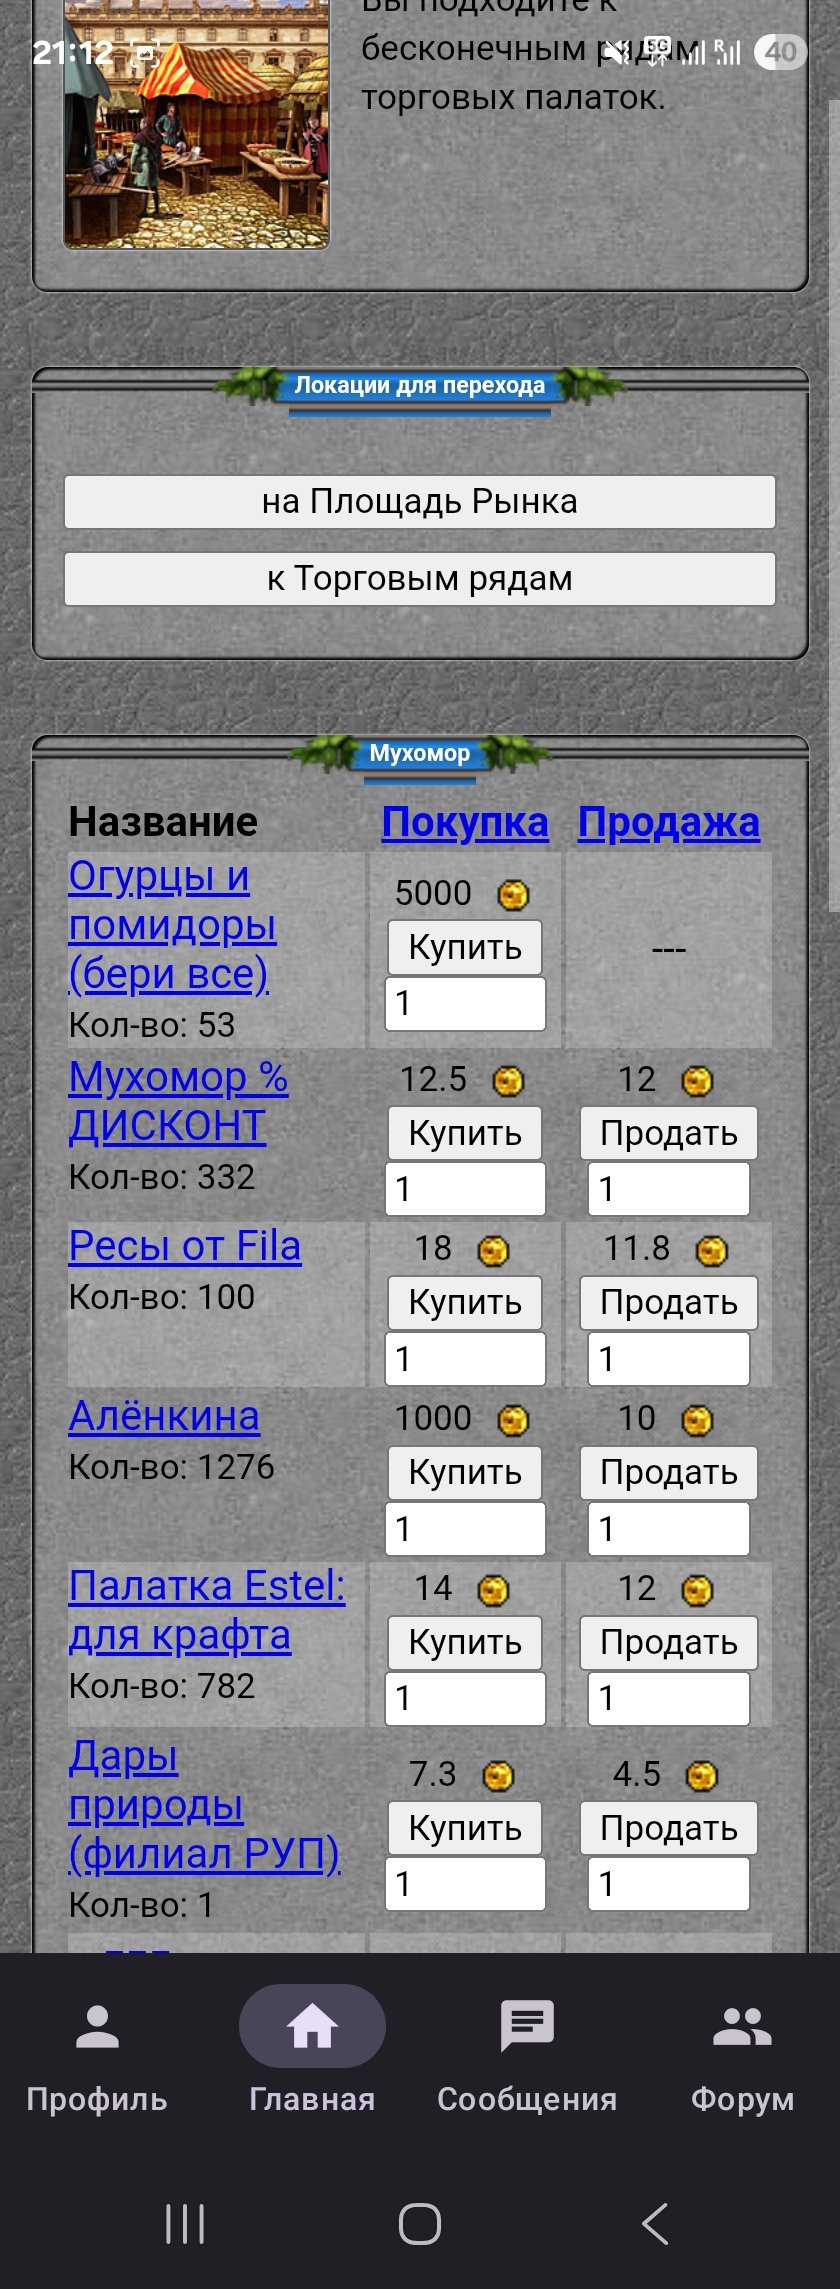
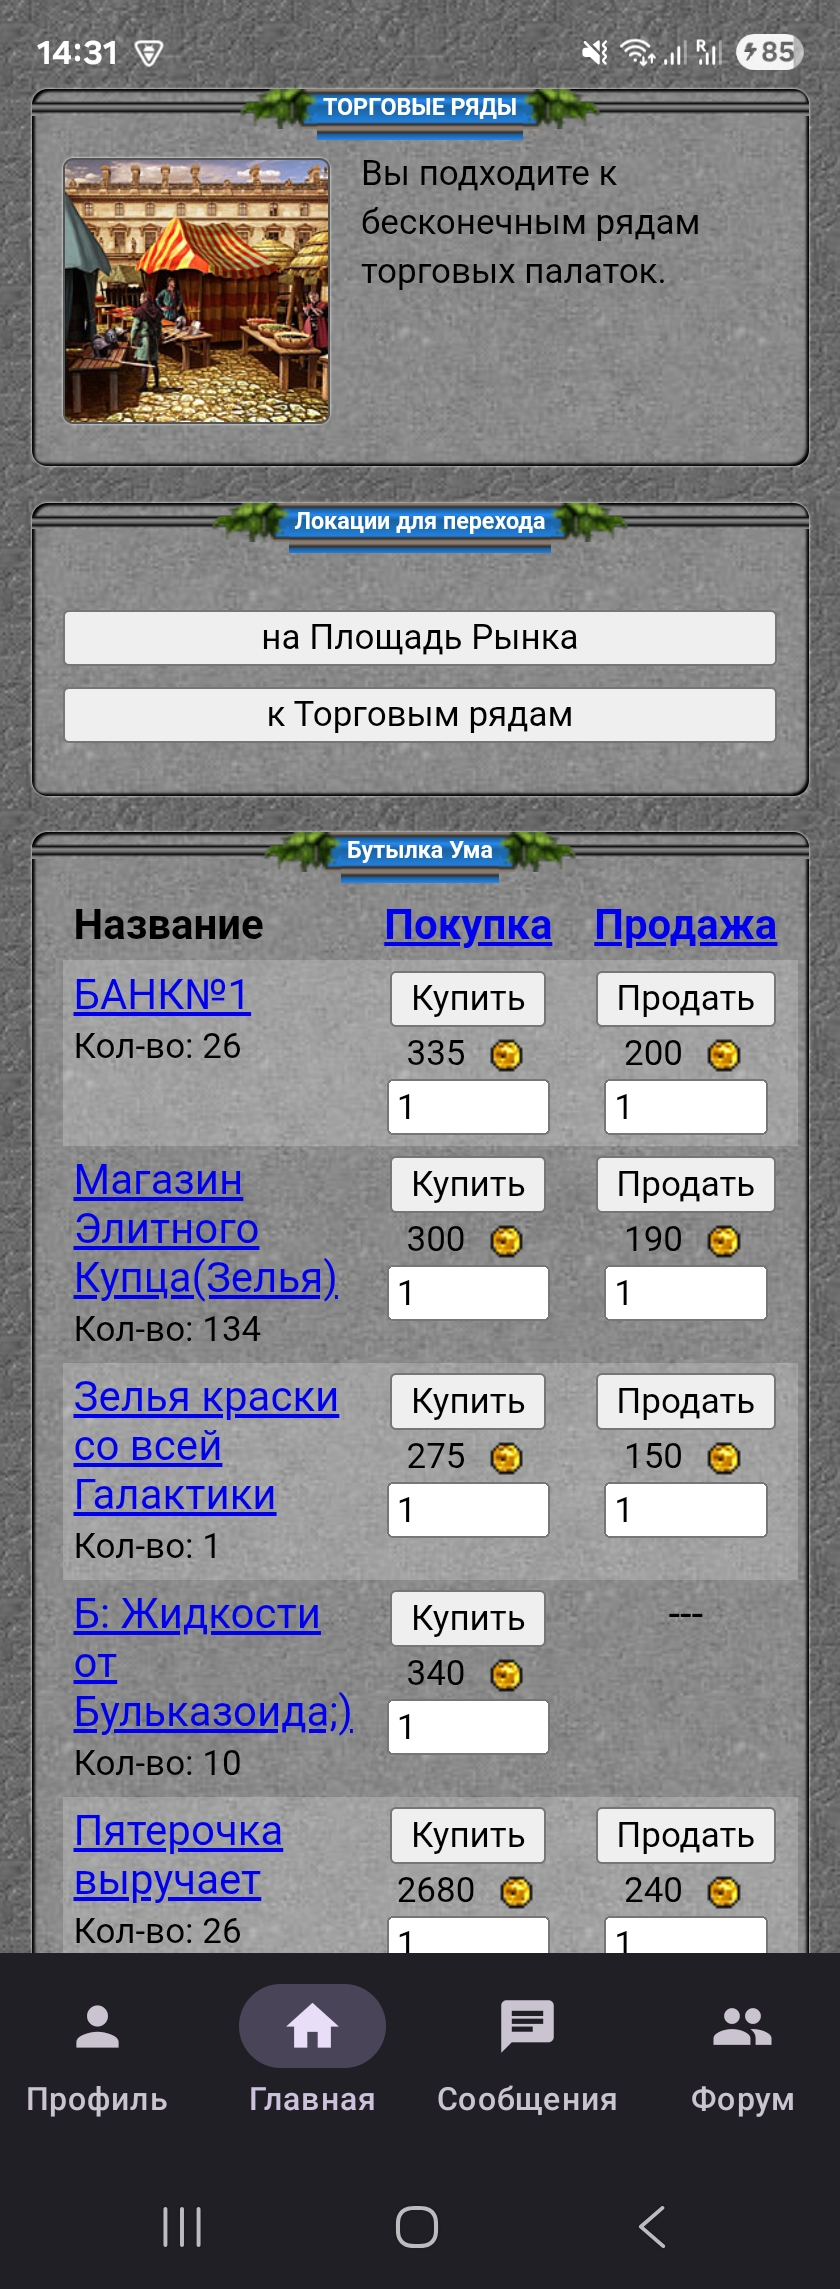
[#61] [CR] Visual adjustments. Improve store list

diff --git a/resources/views/store_tents.blade.php b/resources/views/store_tents.blade.php
@@ -99,7 +99,7 @@
                 <br />
             </div>
             <div class="main_middle">
-                <table width="100%" colspacing="0" cellpadding="0">
+                <table width="100%" cellpadding="4" cellspacing="0">
                     <tr class="colored">
                         <th align="left">
                             Название
@@ -117,37 +117,39 @@
                             <a href="/cgi/v_trade_load_shop.php?id={{ $item['id'] }}">{{ $item['name'] }}</a><br />
                             <small>Кол-во: {{ $item['count'] }}</small>
                         </td>
-                        <td align="center">
-                            <small>
-                                <span class="item_buy" id="b{{ $item['id'] }}">загрузка...</span>&nbsp;
-                                <img src="https://www.fantasyland.ru/images/miscellaneous/money.gif" align="absmiddle" />
-                            </small>
-                            <br />
+                        <td valign="top" align="center">
                             <center>
                                 <form method="POST" onsubmit="return submitBuyForm(this)">
                                     @csrf
+                                    <input type="submit" value="Купить" />
+                                    <br />
+                                    <small>
+                                        <span class="item_buy" id="b{{ $item['id'] }}">загрузка...</span>&nbsp;
+                                        <img src="https://www.fantasyland.ru/images/miscellaneous/money.gif" align="absmiddle" />
+                                    </small>
+                                    <br />
                                     <input type="hidden" name="good_id" value="{{ $id }}" />
                                     <input type="hidden" name="shp_id" id="mb{{ $item['id'] }}" value="" />
                                     <input type="hidden" name="good_type" value="-1" />
                                     <input type="hidden" name="price_quest" value="" />
                                     <input type="hidden" name="capCode" value="" />
-                                    <input type="submit" value="Купить" /><br />
                                     <input type="text" name="number" value="1" size="3" onkeyup="updateCost('b{{ $item['id'] }}', this.value)" />
                                 </form>
                             </center>
                         </td>
-                        <td align="center" id="i{{ $item['id'] }}">
-                            <small>
-                                <span class="item_sell" id="s{{ $item['id'] }}">загрузка...</span>&nbsp;
-                                <img src="https://www.fantasyland.ru/images/miscellaneous/money.gif" align="absmiddle" />
-                            </small>
-                            <br />
+                        <td valign="top" align="center" id="i{{ $item['id'] }}">
                             <center>
                                 <form method="POST" onsubmit="return submitSellForm(this)">
                                     @csrf
+                                    <input type="submit" value="Продать" />
+                                    <br />
+                                    <small>
+                                        <span class="item_sell" id="s{{ $item['id'] }}">загрузка...</span>&nbsp;
+                                        <img src="https://www.fantasyland.ru/images/miscellaneous/money.gif" align="absmiddle" />
+                                    </small>
+                                    <br />
                                     <input type="hidden" name="good_id" value="{{ $id }}" />
                                     <input type="hidden" name="shp_id" id="ms{{ $item['id'] }}" value="" />
-                                    <input type="submit" value="Продать" /><br />
                                     <input type="text" name="number" value="{{ $item['number'] ?? 1 }}" size="3" onkeyup="updateCost('s{{ $item['id'] }}', this.value)" />
                                 </form>
                             </center>

diff --git a/app/Services/StoreParser.php b/app/Services/StoreParser.php
@@ -161,7 +161,7 @@ class StoreParser
             foreach ($matches as $match) {
                 $items[] = [
                     'id' => $match[1],
-                    'name' => trim($match[2]),
+                    'name' => str_replace('&quot;', '"', trim($match[2])),
                     'count' => $match[3],
                 ];
             }